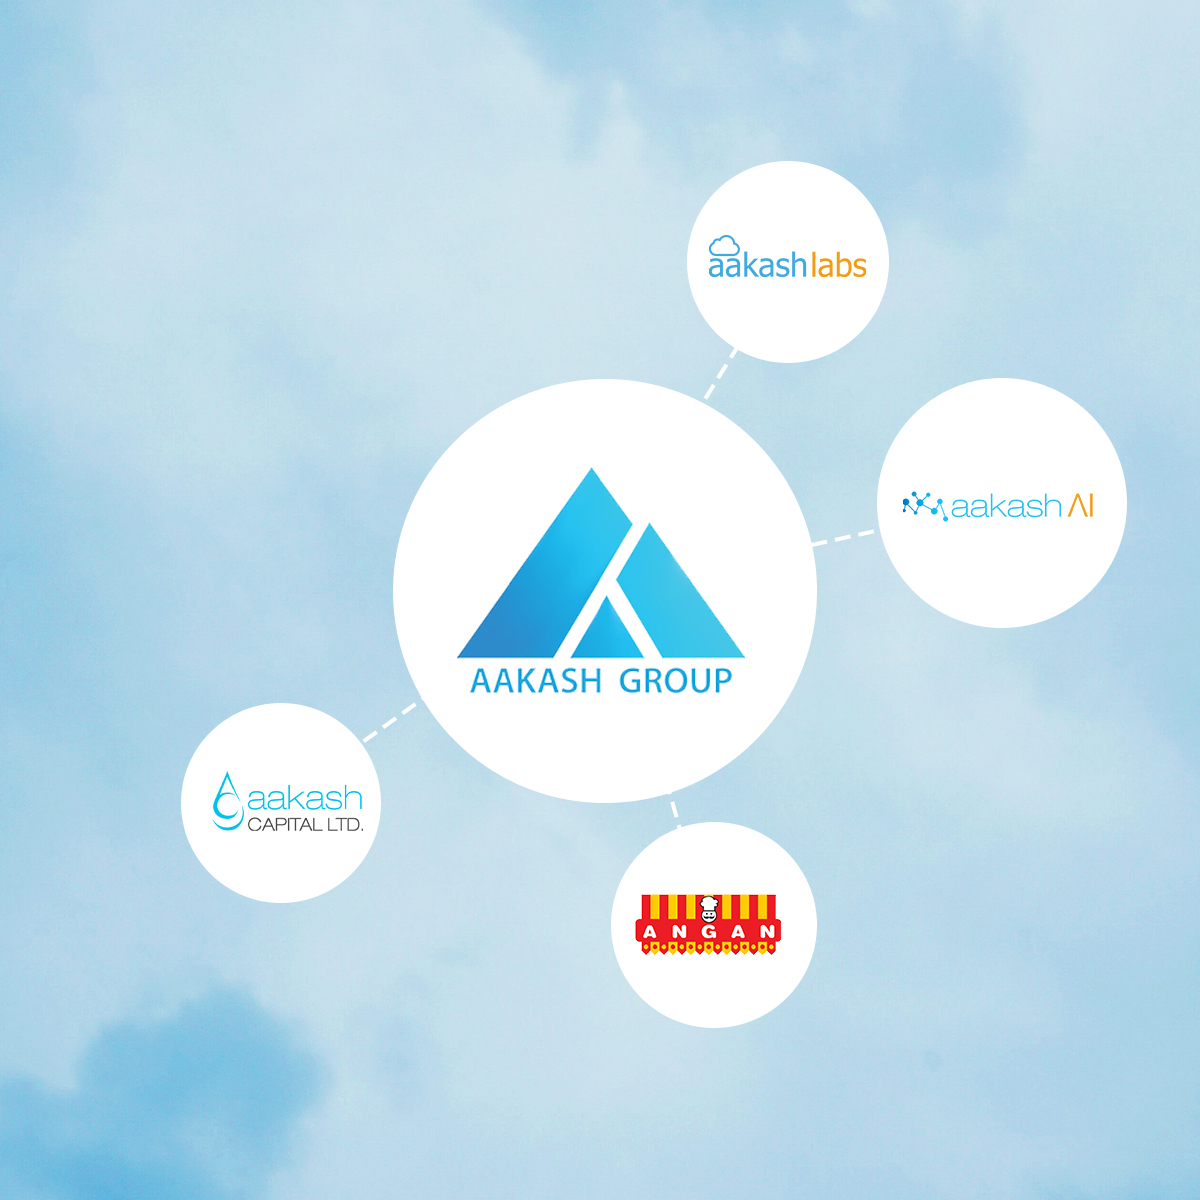
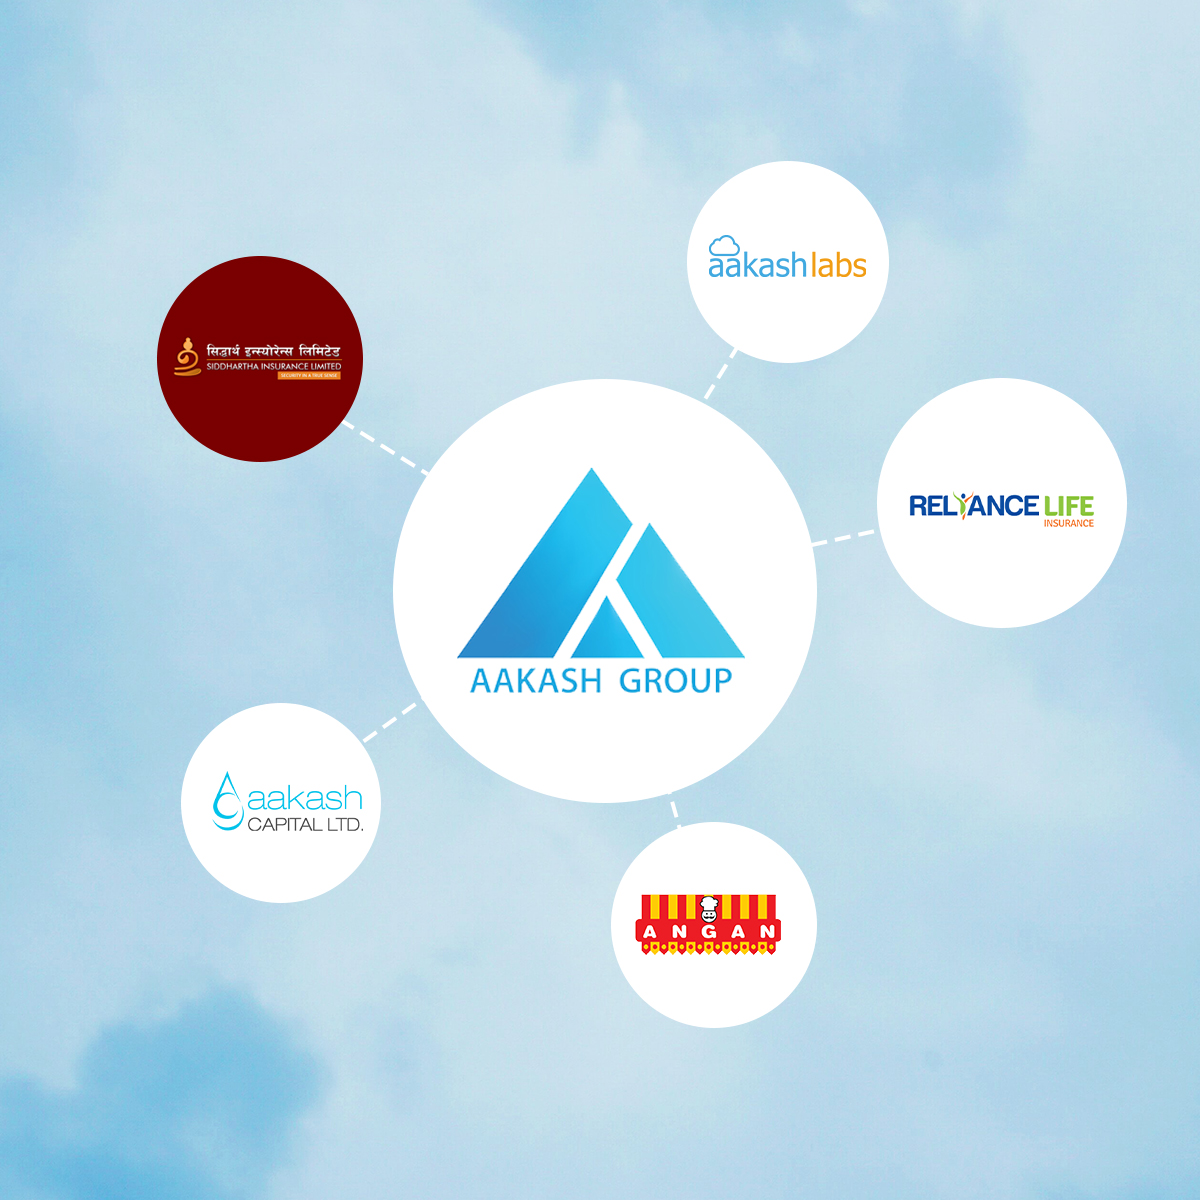
updated images and text for industries

Changed region(s): [[0.1233, 0.2158, 0.3083, 0.4008], [0.74, 0.4008, 0.925, 0.4625]]

diff --git a/src/components/industries/Industries.jsx b/src/components/industries/Industries.jsx
@@ -1,11 +1,11 @@
 import React from "react";
-import angan from "../../assets/images/industries/angan.png";
-import aakashLabs from "../../assets/images/industries/aakash-labs.png";
+import angan from "../../assets/images/industries/angan-logo.png";
+import aakashLabs from "../../assets/images/industries/aakashlabs-logo.png";
 import aakashAi from "../../assets/images/industries/aakash-ai.png";
-import aakashCapital from "../../assets/images/industries/aakash-capital.png";
-import siddharthaInsurance from "../../assets/images/industries/siddhartha-insurance.png";
-import relianceLife from "../../assets/images/industries/reliance-life.png";
-import mahalaxmi from "../../assets/images/industries/mahalaxmi.jpg";
+import aakashCapital from "../../assets/images/industries/aakash-capital-logo.png";
+import siddharthaInsurance from "../../assets/images/industries/siddhartha-logo.png";
+import relianceLife from "../../assets/images/industries/reliance-logo.png";
+import mahalaxmi from "../../assets/images/industries/mahalaxmi-logo.png";
 import hotelHospitality from "../../assets/images/industries/hotel-hospitality.jpg";
 import { Link } from "react-router-dom";
 
@@ -13,7 +13,7 @@ const industries = [
   {
     parent: "Food And Beverages",
     image: angan,
-    child: "Angan Nepal",
+    child: "Aakash Foods",
     link: "/industries/angan",
   },
   {
@@ -22,42 +22,42 @@ const industries = [
     child: "Aakash Labs",
     link: "/industries/aakash-labs",
   },
-  {
-    parent: "Information And Technology",
-    image: aakashAi,
-    child: "Aakash AI",
-    link: "/industries/aakash-ai",
-  },
+  // {
+  //   parent: "Information And Technology",
+  //   image: aakashAi,
+  //   child: "Aakash AI",
+  //   link: "/industries/aakash-ai",
+  // },
   {
     parent: "Banking",
     image: aakashCapital,
-    child: "Aakash Capital",
+    child: "Aakash Capital Ltd.",
     link: "/industries/aakash-capital",
   },
   {
     parent: "Promoter Of Insurance Companies",
     image: siddharthaInsurance,
-    child: "Siddhartha Insurance",
+    child: "Siddhartha Insurance Ltd.",
     link: "/industries/siddhartha-insurance",
   },
   {
     parent: "Promoter Of Insurance Companies",
     image: relianceLife,
-    child: "Reliance Life Insurance",
+    child: "Reliance Life Insurance Ltd.",
     link: "/industries/reliance-life-insurance",
   },
   {
-    parent: "Real Estate",
+    parent: "Laxmi Plaza",
     image: mahalaxmi,
     child: "Mahalaxmi Complex Pvt. Ltd.",
     link: "/industries/mahalaxmi-complex",
   },
-  {
-    parent: "Real Estate",
-    image: hotelHospitality,
-    child: "Hospitality & Hotel",
-    link: "/industries/hospitality-hotel",
-  },
+  // {
+  //   parent: "Real Estate",
+  //   image: hotelHospitality,
+  //   child: "Hospitality & Hotel",
+  //   link: "/industries/hospitality-hotel",
+  // },
 ];
 
 const Industries = () => {
@@ -84,10 +84,12 @@ const Industries = () => {
                   <div className="content">
                     <Link to={industry.link}>
                       <div className="content-overlay"></div>
-                      <img src={industry.image} alt={industry.child} />
+                      <div className="img-wrap">
+                        <img src={industry.image} alt={industry.child} />
+                      </div>
                       <div class="content-details fadeIn-left">
                         <h3>{industry.parent}</h3>
-                        <p>This is a short description</p>
+                        {/* <p>This is a short description</p> */}
                       </div>
                     </Link>
                   </div>

diff --git a/src/components/contact/ContactPage.jsx b/src/components/contact/ContactPage.jsx
@@ -103,7 +103,7 @@ const ContactPage = () => {
               </div>
               <div className="item">
                 <MailFilled />{" "}
-                <a href="mailto: info@aakashlabs.com">info@aakashlabs.com</a>
+                <a href="mailto: info@aakashlabs.com">info@aakash.group</a>
               </div>
             </div>
             <div className="working-hours">
@@ -114,16 +114,16 @@ const ContactPage = () => {
               <div className="item">
                 <ClockCircleFilled /> Sunday-Friday: 10am to 6pm
               </div>
-              <div className="item">
+              {/* <div className="item">
                 <CloseCircleFilled /> Saturday: Closed
-              </div>
+              </div> */}
             </div>
           </div>
         </div>
       </div>
       <div className="map-wrap">
         <iframe
-          src="https://www.google.com/maps/embed?pb=!1m18!1m12!1m3!1d3532.5061703272754!2d85.3201885145382!3d27.70165393235012!2m3!1f0!2f0!3f0!3m2!1i1024!2i768!4f13.1!3m3!1m2!1s0x39eb19c42539e481%3A0xd9d4a660ac7b44f2!2sAakash%20Labs%20-%20Digital%20Marketing%20Agency%20in%20Nepal!5e0!3m2!1sen!2snp!4v1652070139519!5m2!1sen!2snp"
+          src="https://www.google.com/maps/embed?pb=!1m18!1m12!1m3!1d3532.505532613029!2d85.32017191453821!3d27.701673632349266!2m3!1f0!2f0!3f0!3m2!1i1024!2i768!4f13.1!3m3!1m2!1s0x39eb19eb19faf563%3A0x98a2104a2408e05a!2sLaxmi%20Plaza!5e0!3m2!1sen!2snp!4v1655724676084!5m2!1sen!2snp"
           width="100%"
           height="450"
           style={{ border: 0, margin: 0, padding: 0 }}

diff --git a/src/components/industries/Angan.jsx b/src/components/industries/Angan.jsx
@@ -9,12 +9,12 @@ import Features from "./layout/Features";
 const about = {
   description:
     "In association with Bikanervala Foods from India, Aakash Group has been operating Indian fast food restaurants by the name of Angan in Nepal since 1992. Angan is traditional household brand in Nepal widely acknowledged for quality sweets, namkeens and fast food.  Angan started as just a traditional sweets, chat, fast food and bakery store. However, it gradually and successfully carried the strides of taking great traditional taste to new heights. As a result, it has gained stronghold over the Indian sweets & fast food and market in Nepal.",
-  title: "Angan Sweets",
+  title: "Aakash Foods",
   link: "https://angansweets.com/",
 };
 
 const header = {
-  company: "Angan Nepal",
+  company: "Aakash Foods",
   logo: anganLogo,
   caption:
     "In association with Bikanervala Foods from India, Aakash Group has been operating Indian fast food restaurants by the name of Angan in Nepal since 1992.",

diff --git a/public/index.html b/public/index.html
@@ -7,7 +7,7 @@
     <meta name="theme-color" content="#000000" />
     <meta
       name="description"
-      content="Web site created using create-react-app"
+      content="Aakash Group · Food and Beverages · Information and Technology · Promoter of Insurance Companies · Banking · Real Estate."
     />
     <link rel="apple-touch-icon" href="%PUBLIC_URL%/logo192.png" />
     <!--
@@ -27,19 +27,7 @@
     <title>Aakash Group</title>
   </head>
   <body
-    class="
-      page
-      header-fixed
-      no-sidebar
-      site-layout-full-width
-      header-style-2
-      has-topbar
-      topbar-style-2
-      menu-has
-      search
-      menu-has
-      cart
-    "
+    class="page header-fixed no-sidebar site-layout-full-width header-style-2 has-topbar topbar-style-2 menu-has search menu-has cart"
   >
     <noscript>You need to enable JavaScript to run this app.</noscript>
     <div id="root"></div>

diff --git a/src/components/industries/MahaLaxmi.jsx b/src/components/industries/MahaLaxmi.jsx
@@ -1,7 +1,7 @@
 import React from "react";
 import IndustryHeader from "./layout/IndustryHeader";
-// import logo from "../../assets/images/industries/mahalaxmi-logo.png";
-import img from "../../assets/images/industries/mahalaxmi/img.jpg";
+import logo from "../../assets/images/industries/mahalaxmi-logo.png";
+import img from "../../assets/images/industries/mahalaxmi/mahalaxmi.png";
 import AboutIndustry from "./layout/AboutIndustry";
 import Specialities from "./layout/Specialities";
 import Features from "./layout/Features";
@@ -15,7 +15,7 @@ const about = {
 
 const header = {
   company: "Mahalaxmi Complex Pvt Ltd.",
-  // logo: logo,
+  logo: logo,
   caption:
     "Aakash Group is dedicated to developing environmentally sustainable, strategically located and economically viable properties in Nepal.",
   website: "/industries",

diff --git a/src/components/home/StatsSection.jsx b/src/components/home/StatsSection.jsx
@@ -19,12 +19,13 @@ const StatsSection = () => {
   return (
     <div className="stats component">
       <div className="container">
-        {stats.map((stat, index) => (
+        {/* {stats.map((stat, index) => (
           <div key={index} className="stat">
             <div className="value">{stat.value}</div>
             <div className="name">{stat.name}</div>
           </div>
-        ))}
+        ))} */}
+        <div className="text">Over 150 years of history in Nepal.</div>
       </div>
     </div>
   );

diff --git a/src/scss/home/home.scss b/src/scss/home/home.scss
@@ -100,7 +100,7 @@
     }
   }
   .stats {
-    background: linear-gradient(rgba(0, 0, 0, 0.6) 0%, rgba(0, 0, 0, 0.6) 100%),
+    background: linear-gradient(rgba(0, 0, 0, 0.7) 0%, rgba(0, 0, 0, 0.7) 100%),
       url("../../assets/images/stats-bg.jpg") center center / cover no-repeat;
     color: $color-light;
     margin-bottom: 0;
@@ -114,6 +114,9 @@
         .stat {
           margin-bottom: 15px;
         }
+      }
+      .text {
+        font-size: 1.8rem;
       }
       .stat {
         text-align: center;

diff --git a/src/scss/industries/industries.scss b/src/scss/industries/industries.scss
@@ -61,8 +61,15 @@
               -moz-transition: all 0.4s ease-in-out 0s;
               transition: all 0.4s ease-in-out 0s;
             }
+            .img-wrap {
+              height: 250px;
+              background-color: $color-light;
+              display: flex;
+              align-items: center;
+            }
             img {
-              width: 100%;
+              width: 90%;
+              margin: auto;
             }
             .content-details {
               position: absolute;

diff --git a/src/components/about/HowWeStarted.jsx b/src/components/about/HowWeStarted.jsx
@@ -12,7 +12,7 @@ const HowWeStarted = () => {
           <div className="content">
             <p>
               Aakash Group has touched the lives of people from its humble
-              beginnings as an importer of textiles and electronics 100 years
+              beginnings as an importer of textiles and electronics 150 years
               ago. Today, we are diversified into packaged food manufacturing,
               restaurants, insurance, real estate and banking.
             </p>

diff --git a/src/components/industries/HospitalityHotel.jsx b/src/components/industries/HospitalityHotel.jsx
@@ -1,7 +1,7 @@
 import React from "react";
 import IndustryHeader from "./layout/IndustryHeader";
 // import logo from "../../assets/images/industries/mahalaxmi-logo.png";
-import img from "../../assets/images/industries/mahalaxmi/img.jpg";
+import img from "../../assets/images/industries/mahalaxmi/mahalaxmi.png";
 import AboutIndustry from "./layout/AboutIndustry";
 import Specialities from "./layout/Specialities";
 import Features from "./layout/Features";

diff --git a/src/components/layout/Header.jsx b/src/components/layout/Header.jsx
@@ -134,7 +134,9 @@ const Header = () => {
       <Navbar />
       <div className="right">
         <div className="info">
-          <PhoneFilled className="phone-icon" /> 01- 4430196
+          <a href="tel: +97714430196">
+            <PhoneFilled className="phone-icon" /> 01- 4430196
+          </a>
         </div>
         <div className="sidebar-toggler" onClick={() => setIsOpen(true)}>
           <BarsOutlined />
